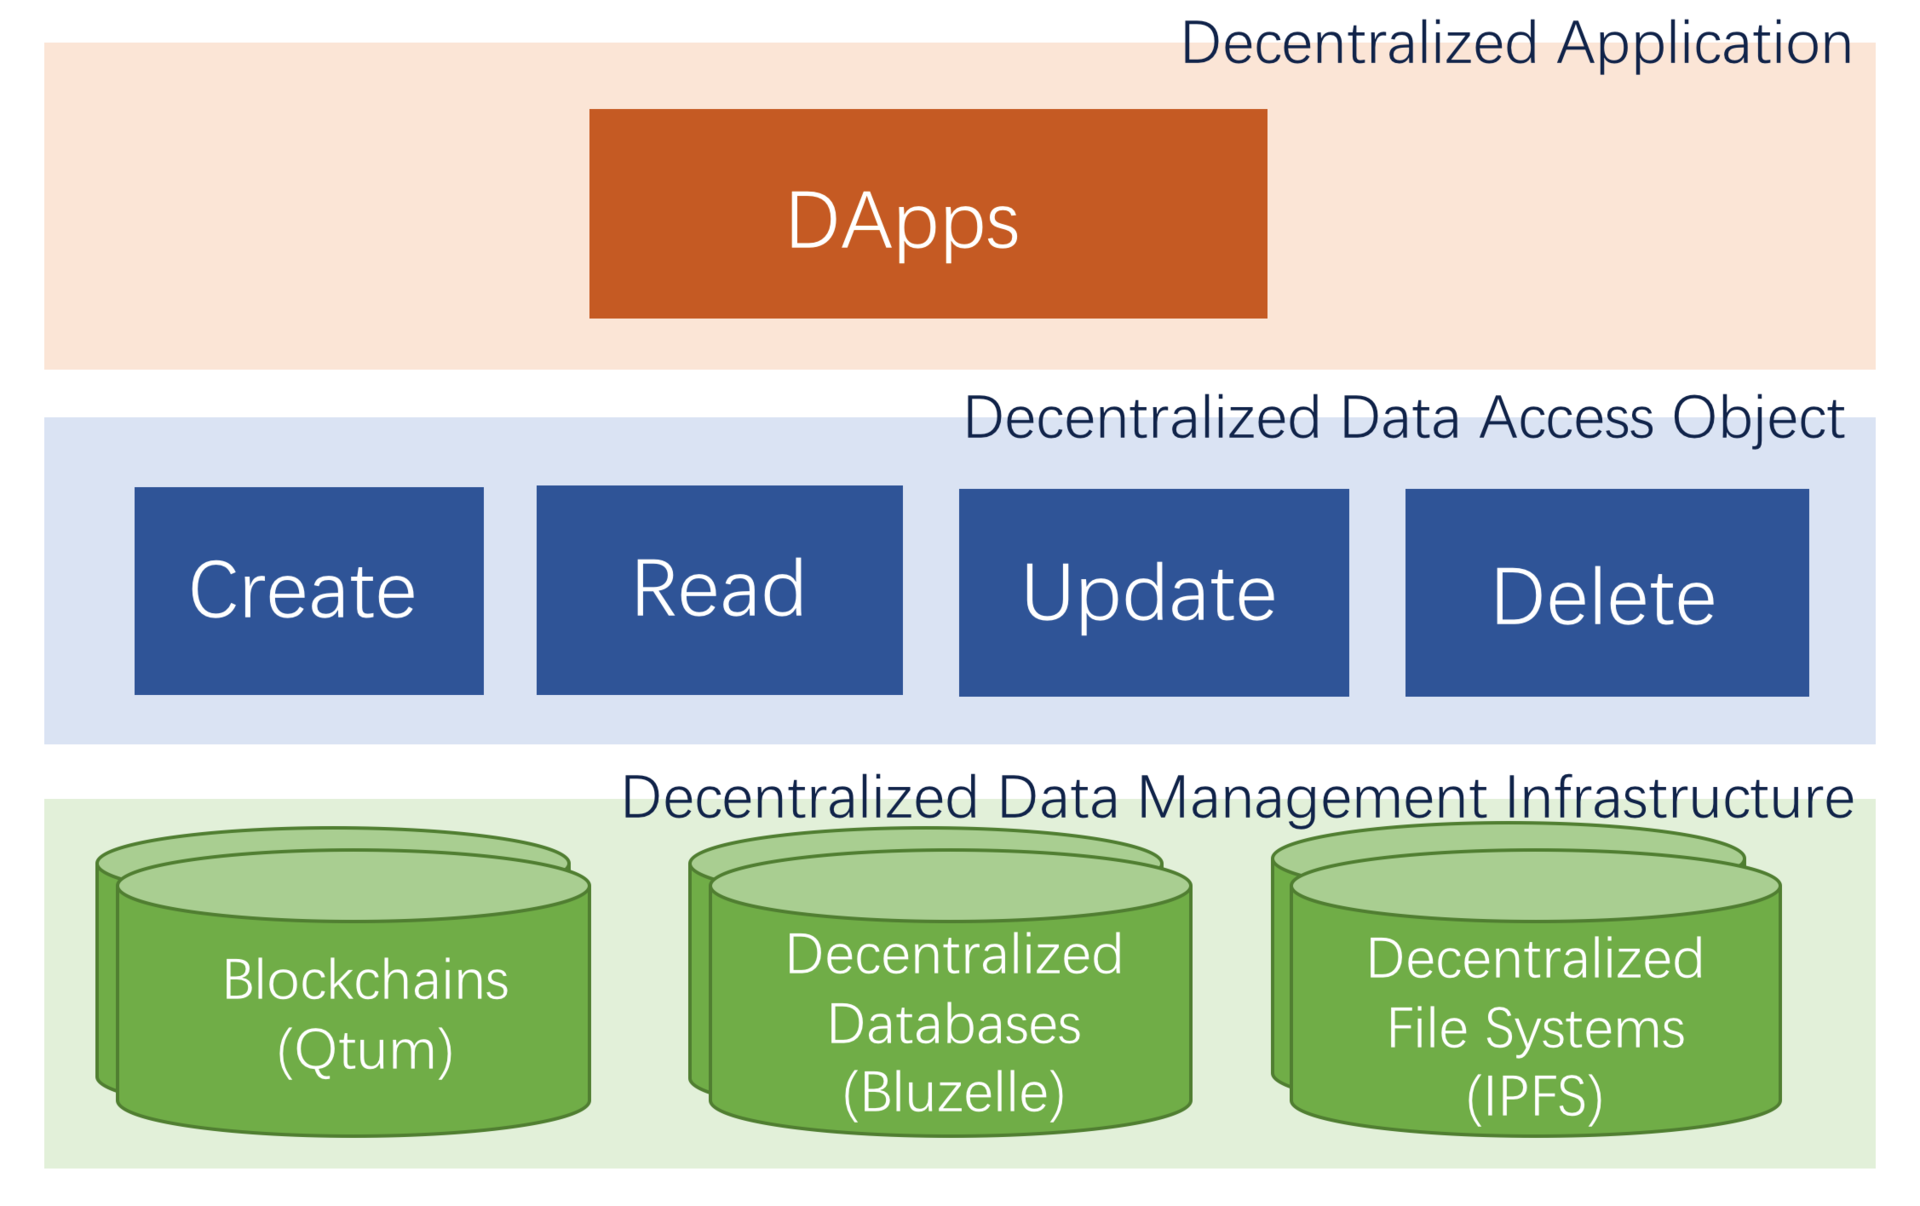
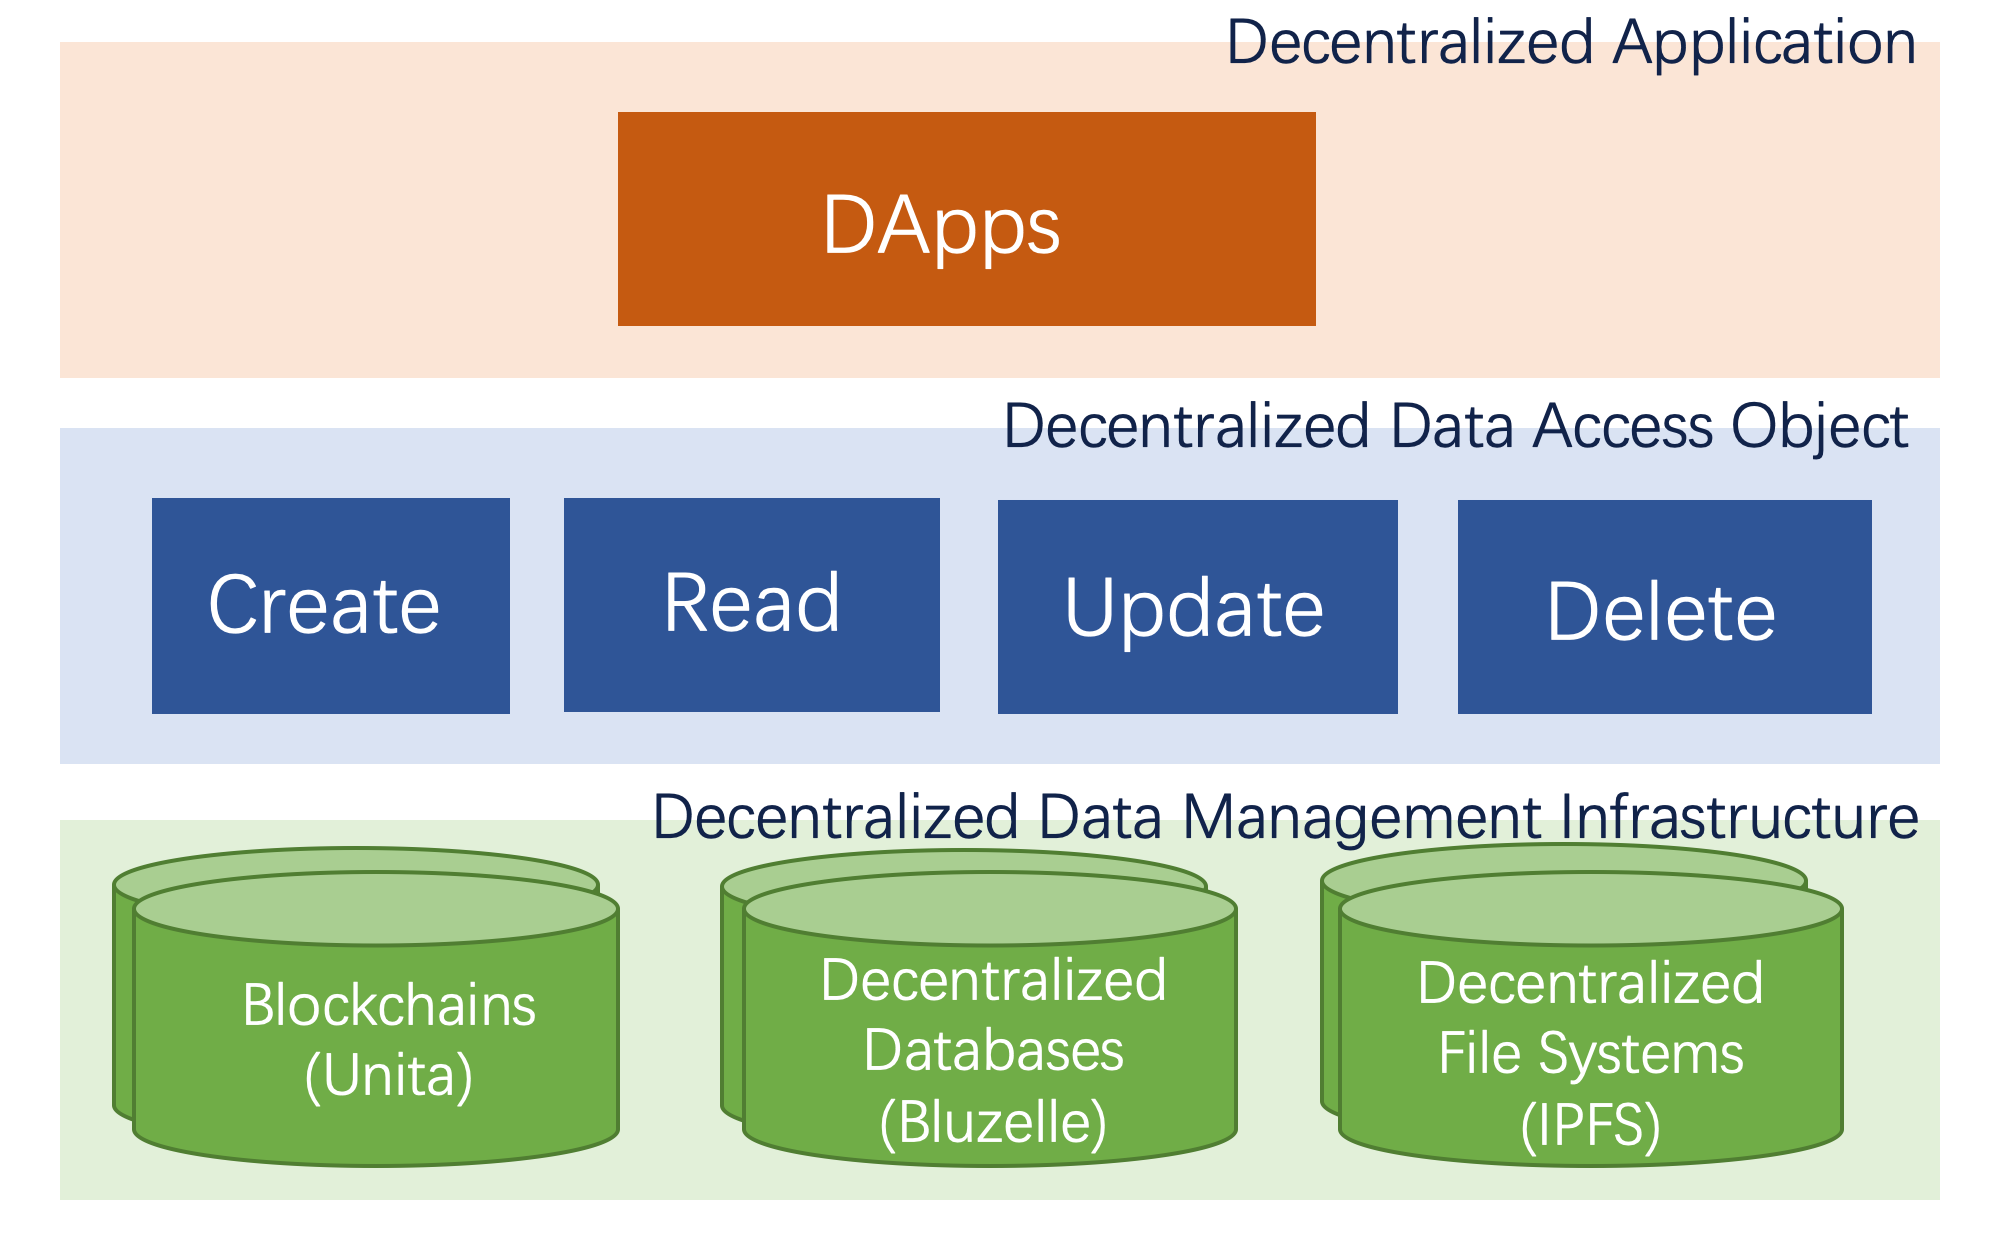
update docs 'One-Click-Launch'

diff --git a/en/styles/website.css b/en/styles/website.css
@@ -12,11 +12,9 @@
 }
 
 .logo div {
-    display: inline-block;
     height: 40px;
-    width: 175px;
[1 lines of base64/hex data omitted]
-    background-size: cover;
[1 lines of base64/hex data omitted]
+    background-size: 35%;
 }
 
 .book-summary ul.summary li.divider {

diff --git a/en/One-Click-Launch-Chain/README.md b/en/One-Click-Launch-Chain/README.md
@@ -17,18 +17,18 @@
   - [Modify System Parameters](#modify-system-parameters)
 
 # Download
-Download the latest installation package from [Github](https://github.com/qtumproject/qtum-enterprise/releases) and install it to any directory.
+Download the latest installation package from [Github](https://github.com/zsrem/unitaprerelease/releases) and install it to any directory.
 
 # Sign up and Sign in
-1. Run qtumd or qtum-qt to start the main chain of Qtum.
-2. Open the Help - Debug window - Console of QT wallet or execute the RPC command by qtum-cli.
+1. Run unitad or unita-qt to start the main chain of Unita.
+2. Open the Help - Debug window - Console of QT wallet or execute the RPC command by unita-cli.
 3. Execute the getnewaddress command, generate a new address as an account and record it.
 4. Execute the dumpprivkey command, get the private key of the new address, and record it.
-5. Open the QtumX[home page] (https://qtumx.net/), click LOGIN to enter the login page.
+5. Open the Unita [One-click blockchain](https://chain.unita.network/), click LOGIN to enter the login page.
 6. Execute the signmessage command, use the generated address to sign the message in the login page, and fill in the login page with the result of signature.
 7. Click LOGIN to complete the login.
-![image](3.jpg)
-![image](4.jpg)
+![image](1.png)
+![image](2.png)
 
 # Build Private Chain
 In order to make it easier to understand, we will first introduce how to build own private chain.
@@ -36,12 +36,12 @@ In order to make it easier to understand, we will first introduce how to build o
 ## Generate Configuration
 Click LAUNCH A NEW CHAIN，enter the page of release new chain.After filling in all the information of the new chain,click SUBMIT to release the new chain.The meaning of each field is as follows.
 1. Chain id:the name of the chain,only support lowercase letters and numbers,unique.Such as mychain123.
-2. Token name:the name of the token,only support capital letters and numbers,unique.Such as BTC、QTX.
+2. Token name:the name of the token,only support capital letters and numbers,unique.Such as BTC、UNT.
 3. Description:the description of the chain,to introduce the chain,also used to generate genesis block.Such as:my first blockchain.
 4. Message Header:Network head packet,used to distinguish different chains in network transmission.4 byte length,sixteen decimal representation,8 0-9a-f characters,such as:1234fedc.
-5. Algorithm:Consensus algorithm.Only PoA consensus is supported now,more choices will be provided in the future.Want to know more about PoA,reference[QtumX technical white paper](https://docs.qtum.org/zh/Technical-White-Paper-for-QtumX/).
+5. Algorithm:Consensus algorithm.Only PoA consensus is supported now,more choices will be provided in the future.Want to know more about PoA,reference [SCAR](https://doc.unita.network/en/SCAR-Consensus/).
 6. Miner list:the list of PoA miners,one or more address,separated by commas.When we build the first private chain,use the default account.
-7. Block interval、Timeout:See the technical white paper, you can use the default value directly.
+7. Block interval、Timeout:See the SCAR docs, you can use the default value directly.
 8. Default port:The default port address.
 9. Dns seed、Ip seed:The default connection seed node in the network when new node join.Because it is a private chain,left empty here.
 10. Init Reward:Initial rewards for each block.
@@ -49,53 +49,53 @@ Click LAUNCH A NEW CHAIN，enter the page of release new chain.After filling in 
 12. Halving times:Times of half.
 
 ## Start Private Chain
-We create a chain named X（[link](https://qtumx.net/#/chain/view?chainId=x)),start the chain by the following steps.
-1. Use qtumd -chain=x or After the configuration and restart in qtum-qt as shown in the following figure,start the chain named X.
-![image](1.jpg)
+We create a chain named xunita ([Link](https://chain.unita.network/#/chain/view?chainId=xunita)) ,the chain by the following steps.
+1. Use unitad -chain=xunita or After the configuration and restart in unita-qt as shown in the following figure,start the chain named xunita.
+![image](3.png)
 2. Execute getpoaminerlist,see the list of miners.
 3. Execute importprivkey,import the miner's private key.
 4. Execute setpoaminer,use miner's account to mine.It needs to run this command to mine after node restarts.
-![image](7.jpg)
+![image](4.png)
 5. We can see that the number of block is increasing from the QT purse or execute getblockchaininfo command.
-![image](2.jpg)
+![image](5.png)
 6. New chain startup success,try trading or intelligent contracts！
 
 ## Connect Private Chain
-Assuming that we have started the private chain X on the machine A and mine,then we need to start the node on the machine B and access the private chain.
-1. Execute qtumd -chain=x or do configuration to start node of X in qtum-qt on machine B.
+Assuming that we have started the private chain xunita on the machine A and mine,then we need to start the node on the machine B and access the private chain.
+1. Execute unitad -chain=xunita or do configuration to start node of xunita in unita-qt on machine B.
 2. Execute addnode "ip_A" add,connect the node on machine A.
 3. After connecting, we can view the node situation through the getpeerinfo command.
 4. Try to trade with each other between the two nodes.
-![image](8.jpg)
+![image](6.png)
 
 # Seed Node
 The new node of the block chain can quickly find the network by connecting the seed node (seed) at the time of startup,save the steps of addnode at the above text.The seed node can be a IP or a domain name,and there are nodes running on the corresponding servers. The following explains the process of configuring the seed node.
-1. Build a new chain named xx,（[Link](https://qtumx.net/#/chain/view?chainId=xx)),fill in own domain name in Dns seed,or fill in server address in Ip seed.If you use the domain name,please parse the domain name to your server.
+1. Build a new chain named xxxxx ([Link](https://chain.unita.network/#/chain/view?chainId=xxxxx)) ,fill in own domain name in Dns seed,or fill in server address in Ip seed.If you use the domain name,please parse the domain name to your server.
 
 ```
-Dns seed:  beta.qtumx.net
-Ip seed:  116.62.70.220
+Dns seed:  beta.unita.network
+Ip seed:   47.88.61.227
 ```
-2. Enter server（116.62.70.220）,use ./qtumd -chain=xx to start the node.
+2. Enter server（47.88.61.227）,use ./unitad -chain=xxxxx to start the node.
 ```
-root@116.62.70.220:./qtumd -chain=xx -daemon
+root@47.88.61.227:./unitad -chain=xxxxx -daemon
 ```
-3. Configuration is completed,any machine starting the XX chain will connect to the seed node to get data.You can see the nodes on the connection through the getpeerinfo command.
-![image](6.jpg)
+3. Configuration is completed,any machine starting the xxxxx chain will connect to the seed node to get data.You can see the nodes on the connection through the getpeerinfo command.
+![image](7.png)
 
 # Build Consortium Chain
 The difference between consortium chain and private chain is that the consortium chain is maintained by many miners.EOS is a typical consortium chain:first we get multiple super nodes through the campaign,then these super nodes are responsible for producing the blocks and get the reward of the blocks.
 
 ## Configuration
-Build a new consortium chain named qtumx（[Link](https://qtumx.net/#/chain/view?chainId=qtumx)).Compared to private chain,the main change is that the miner list field has 3 miners' addresses, separated by commas.
+Build a new consortium chain named unitax（[Link](https://chain.unita.network/#/chain/view?chainId=unitax)) .Compared to private chain,the main change is that the miner list field has 3 miners' addresses, separated by commas.
 ```
 Miner list
-QT65fYRCwq5tctNsVNVPNnHkwajArLFjo1,QjoHqQw5DsTniaqefuzbpuBDWW3C3qimy2,QWWdLoiHnFSNCjibCyGwbQjwtSzK5Unef3
+UgW1vTs3bA9pb73EeJ8N9M712w6Z7Evbru,Um8w24duUhf1XE8NVcbzn91tCeiuRWU188,UjBnjZ39N7U3vRkKoknntkkfiKzFbphZRR
 ```
 
 ## Start
 Start 3 nodes on the seed server,and open mining by importprivkey and setpoaminer command.We can see that the height of block is increasing and the system is running normally by the getblockchaininfo command.We can see the miner of every block by the getblock command.
-![image](9.jpg)
+![image](8.png)
 
 # Online Governance
 ## About DGP

diff --git a/en/Unita-Quick-Start/README.md b/en/Unita-Quick-Start/README.md
@@ -1,0 +1,114 @@
+# Unita Quick Start
+Unita is the blockchain service provider based on open source project Qtum, provides enterprise application solutions that can be customized in various industries.
+
+Unita is based on consortium blockchain, builds a main chain with many side-chains system architecture, integrate one-click-blockchain, cross-chain transaction, data management and other modules and diversified supporting tools to form a one-stop blockchain enterprise service
+
+We provide various services such as Unita full node wallet, faucet to get airdrop of UNT, blockchain explorer and blockchain stats,etc, to help you to use Unita.
+
+Unita URLs are as follws：
+
+Unita Homepage：https://unita.network/
+
+Unita Qt-wallet download：https://github.com/zsrem/unitaprerelease/releases
+
+Unita One-Click-Blockchain：https://chain.unita.network/
+
+Unita Faucet：https://faucet.unita.network/
+
+Unita Stats：https://stats.unita.network/
+
+
+## Contents
+
+- [Download](###Download-full-node-wallet)
+- [Run Wallet](###run-wallet)
+- [Send Transactiom](###send-transaction)
+    - [Main Interface](####My-Wallet)
+    - [Transaction](####Send)
+- [Get UNT through faucet](###Get-Airdrop-through-Faucet)
+
+
+### Download full node wallet
+
+Find the latest release in [Github](https://github.com/zsrem/unitaprerelease/releases) and download wallet according to your device.
+
+![image](1.png)
+
+### Run Wallet
+
+Install the full node wallet and run it after downloaded. It will display window as picture below if there is no full node data existed, and then you should choose blockchain data path. You can use the defult path or custom it.
+
+![image](2.png)
+
+Click 'OK' to enter the main interface of qt wallet. Wallet will connect nodes of Unita main network and download data of Unita blockchain in defult. You can also change chainId in 'Preference'(Mac users) to connect other blockchain network launched in 'One-Click-Blockchian'.(See mor details in '[One-Click-Launch-Chain](https://doc.unita.network/zh/One-Click-Launch-Chain/)')  
+
+![image](3.png)
+
+### Send Transaction
+
+If you own the privatekey of an Unita address with UNT, you can open Console in Help/Debug Window and input command "importprivkey 'unitaprivkey'" to import your address in wallet.
+
+![image](4.png)
+
+If not, maybe you should get an Unita address by command "getnewaddress". You can export privatekey by command "dumpprivkey 'unitaaddress'" after you have got a new address.
+
+#### My Wallet
+
+Wallet will display some information such as balances in main interface:
+1. Balances
+2. Avaliable balance
+3. Pending balance
+4. Total balance
+5. Other Tokens
+6. Recent Transaction
+
+![image](5.png)
+
+#### Send
+
+You can send transaction on the Send menu to realize to send certain number of UNTs to Unita address.
+
+![image](6.png)
+
+Pay To: Here we’ll enter the address we want to send UNT to (Only Unita ignition addresses will work).
+
+Label: Optional, as it’s stated, it’s just a name/tag.
+
+Amount: Here we enter the amount of UNT we want to send.
+
+Once all fields are covered, we can click on the “Send” button and the UNT coins will be sent to the address we entered above.
+
+![image](7.png)
+
+### Get Airdrop through Faucet
+
+Enter [Unita Faucet](https://faucet.unita.network/) homepage.
+
+![image](8.png)
+
+Unita Faucet airdrop UNT by verifying Twitter or Sina Weibo, and process is following:
+1. Choose a social network to login
+2. Follow the example below to publish content(Twitter content is '#Unita +UnitaAddress', Sina Weibo content is '#Unita# +UnitaAddress')
+3. Copy content URL to the form above and click "Get Unita"
+4. Watch the in process transaction list below and wait
+
+我们以新浪微博为例实际操作。
+在 https://m.weibo.cn/ 中登录微博账号 （https://m.weibo.cn/是微博的Html5版，便于您获取到正确的微博链接）
+
+![image](9.png)
+
+登录后根据微博内容要求发布对应话题和地址
+
+![image](10.png)
+
+发布完成后进入到自己的主页找到发布后的那条微博，复制链接
+
+![image](11.png)
+
+![image](12.png)
+
+将获取的链接粘贴入水龙头的输入框中，完成验证码验证，等待确认（获得的链接应是 https://m.weibo.cn/detail/${id} 格式）
+
+Twitter 用户操作与微博相同
+
+注意：为了防止 UNT 的恶意过度申领，我们采取了社交媒体加验证码的验证模式，同时限制了申领数量，每次申领成功会获得50枚 UNT，一个社交媒体账号在24小时内只能申领一次，但允许同一个 Unita 地址通过不同的社交账号申领。

diff --git a/en/DDAO-Data-Management/README.md b/en/DDAO-Data-Management/README.md
@@ -36,7 +36,7 @@ Decentralized systems have a variety of implementations, leading to high learnin
 The system can be separated into three layers, namely DDMI (Decentralized Data Management Infrastructure), DDAO and DApp (Decentralized Application), which will be introduced as follows.
 
 ## DDMI
-The DDMI layer contains a variety of decentralized systems, including blockchains, decentralized databases, decentralized file systems, and more. These decentralized systems can be launched locally by the developer or deployed on a remote server, and then connected through a descriptor with uniform format. For example, the format of *name://user:password@ip:port*, that is, connecting to a local Qtum node with port 13889 by *qtum://admin:123456@127.0.0.1:13889*, or connecting to an IPFS node in LAN with 8080 port by *ipfs://myname:mypasswd@192.168.1.2:8080*.
+The DDMI layer contains a variety of decentralized systems, including blockchains, decentralized databases, decentralized file systems, and more. These decentralized systems can be launched locally by the developer or deployed on a remote server, and then connected through a descriptor with uniform format. For example, the format of *name://user:password@ip:port*, that is, connecting to a local Unita node with port 13889 by *unita://admin:123456@127.0.0.1:13889*, or connecting to an IPFS node in LAN with 8080 port by *ipfs://myname:mypasswd@192.168.1.2:8080*.
 
 ## DDAO
 The DDAO layer is the core module proposed in this paper. Its main functions include (1) establishing connections to various decentralized systems, (2) abstracting to get compatible CRUD interfaces. For different types of decentralized systems, abstract interfaces are different:

diff --git a/zh/DDAO-Data-Management/README.md b/zh/DDAO-Data-Management/README.md
@@ -42,7 +42,7 @@
 
 ## DDMI
 
-DDMI层将兼容各种去中心化系统，包括区块链、去中心化数据库、去中心化文件系统等。这些去中心化系统可以由开发者本地启动，也可以部署在远程服务器上，然后通过统一格式的描述符进行连接。例如 name://user:password@ip:port 格式，即通过 qtum://admin:123456@127.0.0.1:13889 可以连接上本地13889端口下的Qtum链，或是通过 ipfs://myname:mypasswd@192.168.1.2:8080 连接局域网内8080端口下的IPFS。
+DDMI层将兼容各种去中心化系统，包括区块链、去中心化数据库、去中心化文件系统等。这些去中心化系统可以由开发者本地启动，也可以部署在远程服务器上，然后通过统一格式的描述符进行连接。例如 name://user:password@ip:port 格式，即通过 unita://admin:123456@127.0.0.1:13889 可以连接上本地13889端口下的Unita链，或是通过 ipfs://myname:mypasswd@192.168.1.2:8080 连接局域网内8080端口下的IPFS。
 
 ## DDAO
 
